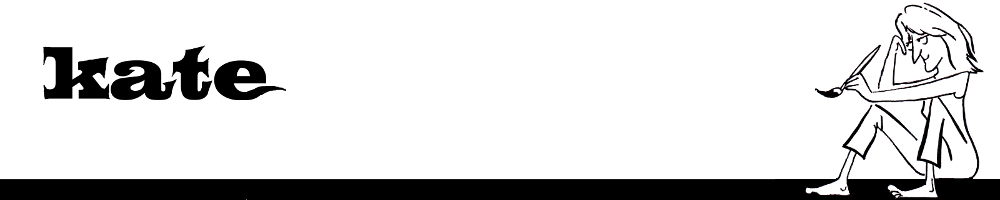
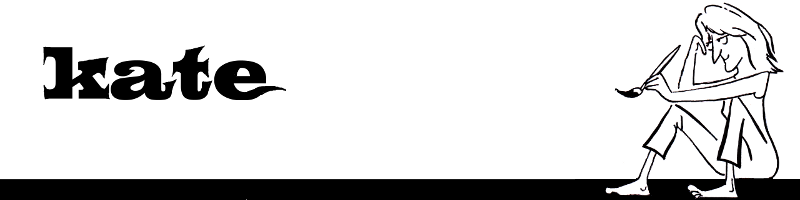
decrease site width from 1000px to 800px

Changed region(s): [[0.7188, 0.0, 1.0, 0.99], [0.0312, 0.21, 0.375, 0.51]]

diff --git a/public/style/default.css b/public/style/default.css
@@ -10,6 +10,10 @@ a:hover {
     text-decoration: underline;
 }
 
+h2 {
+    font-family: serif;
+}
+
 table.menu {
     background: black;
     border-collapse: collapse;
@@ -40,7 +44,7 @@ table.menu td a:visited {
 div.centered {
     margin-left: auto;
     margin-right: auto;
-    width: 1000px;
+    width: 800px;
 }
 
 div.blackbox {
